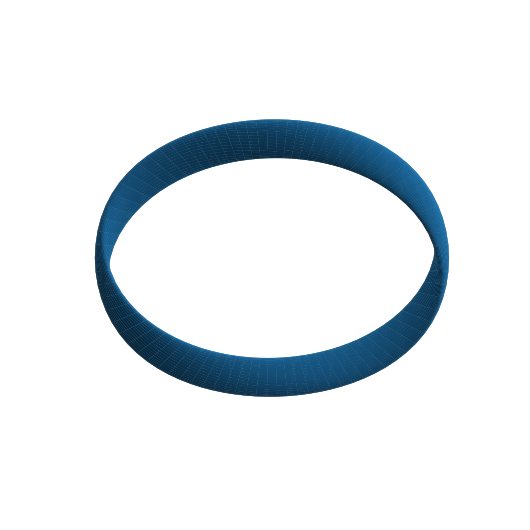
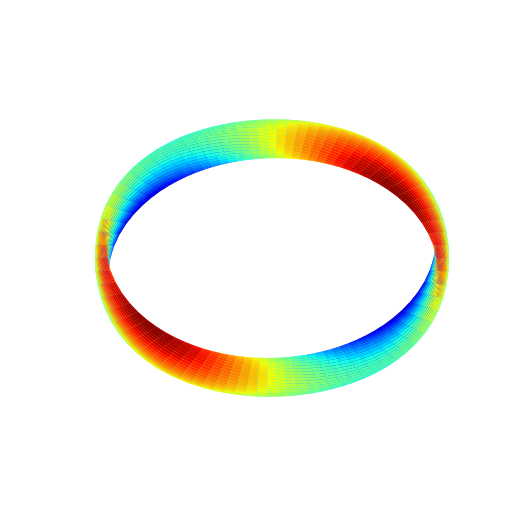
Tutorials: strike points next to the truth; designs colored by height
Using the heat-flux model scatters the sampled strike points next to
the true ones, and plots the new design's strike points next to their
binned energy. Wording changes in both tutorials; the generated design
is colored by height (plot_device without modB, boss_bench 8acd579).

Changed region(s): [[0.1811, 0.2113, 0.8453, 0.7547]]

diff --git a/docs/tutorials/using-heat-flux-model.md b/docs/tutorials/using-heat-flux-model.md
@@ -46,6 +46,30 @@ print(f"{len(zeta)} strike points, predicted loss fraction {loss_fraction:.3f}")
 1273 strike points, predicted loss fraction 0.255
 ```
 
+{func}`~boss_bench.heat_flux.lost_particles` gives the true strike points, which we
+scatter next to the predicted ones, colored by energy:
+
+```python
+import matplotlib.pyplot as plt
+
+true = bb.lost_particles(
+    record["confinement_time"], record["t_max"], record["s_init"],
+    record["zeta_end"], record["theta_end"], s0=0.1)
+clouds = {"true": true[:3], "predicted": (zeta, theta, energy)}
+
+fig, axes = plt.subplots(1, 2, figsize=(10, 4), sharey=True)
+for ax, (name, (z, t, e)) in zip(axes, clouds.items()):
+    points = ax.scatter(z, t, c=e, s=2, cmap="jet", vmin=0, vmax=3.5)
+    ax.set_title(f"{name} strike points, $s_0$ = 0.1")
+    ax.set_xlabel(r"Boozer $\zeta$")
+axes[0].set_ylabel(r"Boozer $\theta$")
+fig.colorbar(points, ax=axes, label="energy [MeV]")
+```
+
+```{figure} ../_static/tutorials/using_heat_flux_model_strike_points.png
+:alt: True and predicted strike points of the particles born on s0 = 0.1, colored by energy
+```
+
 {func}`~boss_bench.heat_flux.binned_heat_flux` turns strike points into the heat flux
 on the boundary, in MeV/m² per launched particle, binned over one field period:
 
@@ -77,16 +101,15 @@ heat-flux benchmark, {func}`~boss_bench.heat_flux.heat_flux_metrics`, scores.
 
 ## A new design
 
-The model also predicts the strike points of a design that is not in the data. As in
+The model can also predict the strike points of a design that is not in the data. As in
 [Using the loss-fraction surrogate](using-loss-fraction-surrogate.md), the boundary is
 `boundary_xyz = surface.gamma()` of a simsopt `SurfaceRZFourier` with 41 × 41
 quadrature points over one field period, and the profiles are evaluated at 15 radial
 points linearly spaced from $s = 10^{-4}$ to 1. The model also needs the rotational
-transform; here it is a zero-shear profile, $\iota = 0.81$ on every surface. The design
+transform; here we use a zero-shear profile, $\iota = 0.81$ on every surface. The design
 is a rotating ellipse at the scale of ARIES-CS, in vacuum (`pip install simsopt`):
 
 ```python
-import matplotlib.pyplot as plt
 import numpy as np
 from simsopt.geo import SurfaceRZFourier
 
@@ -119,16 +142,22 @@ print(f"{len(zeta)} strike points, predicted loss fraction {loss_fraction:.3f}")
 
 {func}`~boss_bench.heat_flux.binned_heat_flux` divides by the area of each bin on the
 boundary, which it computes from the Boozer coordinates of the boundary (`R_boozer`,
-`Z_boozer` and `nu_boozer`, from booz_xform). Without them, we plot the energy that the
-strike points deposit in each bin, with the field periods folded into one:
+`Z_boozer` and `nu_boozer`, from booz_xform). Without computing the Boozer coordinates,
+we plot the energy that the strike points deposit in each bin, with the field periods
+folded into one, next to the strike points themselves:
 
 ```python
-plt.figure(figsize=(5, 3.6))
 folded = zeta % (2 * np.pi / nfp)  # the field periods folded into one
-plt.hist2d(folded, theta, bins=32, weights=energy, cmap="YlOrRd")
-plt.colorbar(label="energy of the strike points [MeV]")
-plt.xlabel(r"Boozer $\zeta$ (one field period)")
-plt.ylabel(r"Boozer $\theta$")
+fig, axes = plt.subplots(1, 2, figsize=(11, 4))
+h = axes[0].hist2d(folded, theta, bins=32, weights=energy, cmap="YlOrRd")
+fig.colorbar(h[3], ax=axes[0], label="energy of the strike points [MeV]")
+axes[0].set_xlabel(r"Boozer $\zeta$ (one field period)")
+points = axes[1].scatter(
+    zeta, theta, c=energy, s=2, cmap="jet", vmin=0, vmax=3.5)
+fig.colorbar(points, ax=axes[1], label="energy [MeV]")
+axes[1].set_xlabel(r"Boozer $\zeta$")
+for ax in axes:
+    ax.set_ylabel(r"Boozer $\theta$")
 ```
 
 ```{figure} ../_static/tutorials/using_heat_flux_model_new_design.png

diff --git a/docs/tutorials/designing-stellarators.md b/docs/tutorials/designing-stellarators.md
@@ -26,10 +26,11 @@ The model is conditioned on properties the design should have, given by the name
 BoSS fields and in their units: the number of field periods `nfp`, the `loss_fraction`
 of the alpha particles born on $s = 0.1$, the toroidal flux `toroidal_flux_edge`, the
 `minor_radius`, the `aspect_ratio`, the minimum field strength `min_modB`, the
-`mirror_ratio`, the `pressure` and `iota` profiles, and `vmec_ncurr`, which says
-whether the equilibrium is computed with the $\iota$ (0) or the current profile (1).
+`mirror_ratio`, the `pressure` and `iota` profiles, and `vmec_ncurr`, a boolean which
+says whether the equilibrium is computed with the $\iota$ (0) or the current profile (1).
 
-Good designs come from realistic conditions with a low loss fraction. Download
+Good designs come from realistic conditions with a low loss fraction. We use the
+conditions of devices from the test set with a low loss fraction. Download
 `confinement_data_test_split_00000.hdf5` from the [Download Data](../download.md) page
 into a folder, here `BoSS/`, and take the conditions of the first stellarator of the
 test split that loses less than 10% of its alpha particles:
@@ -84,8 +85,8 @@ design = model.sample(conditions, seed=0)
 ```
 
 {func}`~boss_bench.plotting.plot_device` draws it over the full torus. A generated
-boundary has no $\lvert B \rvert$ until its equilibrium is computed, so it is drawn in
-one color:
+boundary has no $\lvert B \rvert$ until its equilibrium is computed, so it is colored by
+the height $z$ of its points:
 
 ```python
 generated = {name: record[name] for name in ("nfp", "phi1d", "theta1d")}
@@ -94,7 +95,7 @@ bb.plot_device(generated)
 ```
 
 ```{figure} ../_static/tutorials/designing_stellarators.png
-:alt: A stellarator boundary generated with the properties of a low-loss test stellarator
+:alt: A stellarator boundary generated with the properties of a low-loss test stellarator, colored by height
 ```
 
 To ask for a different design, change the conditions, for example a lower
